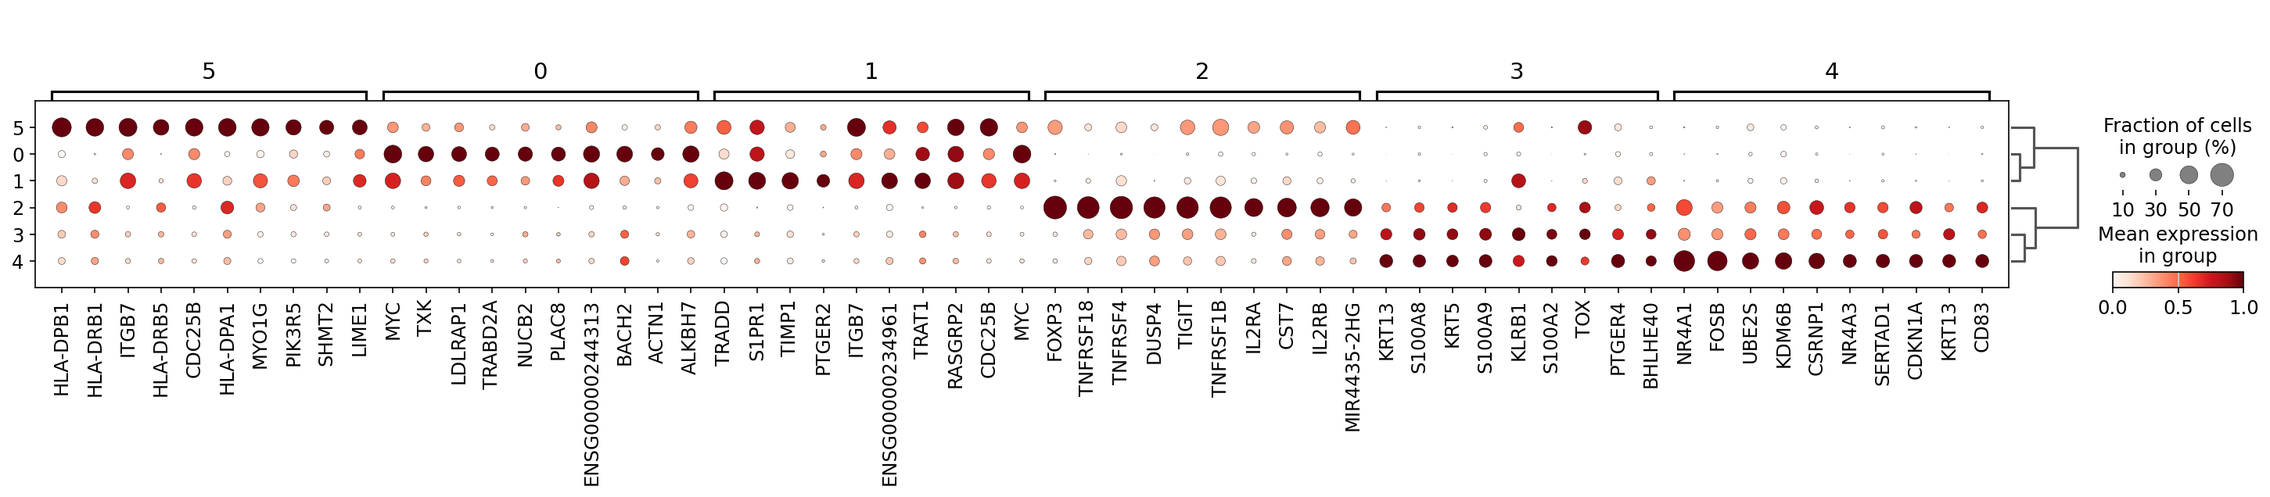
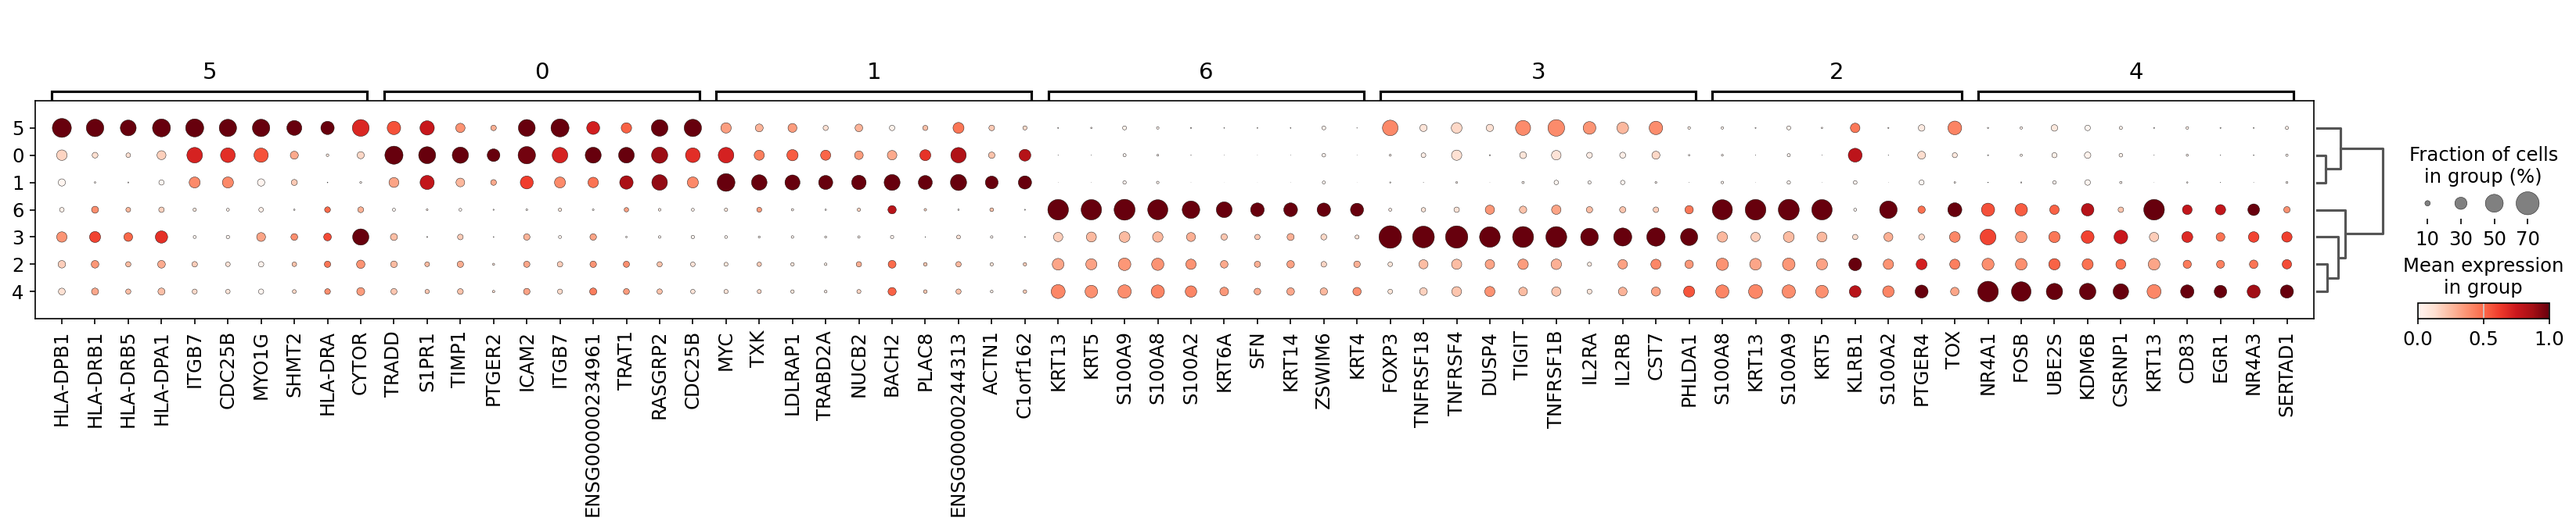
tht

diff --git a/Notebook_THT/探索过程/第二次亚群注释-T细胞.md b/Notebook_THT/探索过程/第二次亚群注释-T细胞.md
@@ -192,3 +192,238 @@ for celltype in celltypes_to_process:
         plot_prefix=""  # 图片名前缀（如scRNA_T_umapmd0.1_cluster.png）
     )
 ```
+
+## final anno CD4T
+T细胞的注释比较特殊,不同细胞群会有相同的marker表达，比如Tcm是在Tn基础上表达一定的杀伤marker
+
+
+### 先看看celltypist的结果
+<img src="..\figures\umap121celltypist_coarse_CD4T.png">
+<img src="..\figures\umap121celltypist_fine_CD4T.png">
+
+### 再看看聚类情况
+<img src="..\figures\umapCD4+T_umapmd0.4_cluster.png">
+
+### 筛marker
+```
+import scanpy as sc
+sc.settings.set_figure_params(
+    dpi=300,
+    facecolor="white",
+    frameon=False
+)
+sc.settings.figdir = "plots"
+adata = sc.read("RData/CD4+T__umapmd0.4.h5ad")
+marker_genes = {
+    "Tn": ["CCR7", "LEF1", "SELL", "TCF7", "MAL", "TXK", "CD27", "CD28", "S1PR1", "IL7R", "CD45RA", "CD38", "KLF2", "CHMP1B", "CYCS", "CD55", "AREG"],
+    "Temra": ["CD45RA", "GZMH", "GZMB", "TBX21", "ASCL2", "CX3CR1", "KLRG1", "FCGR3A", "FGFBP2", "PRF1", "EOMES", "S1PR1", "S1PR5", "NKG7", "GNLY", "CTSW"],
+    "Tcm": ["CCR7", "CCR4", "CXCR3", "CXCR4", "ANXA1", "GPR183", "LMNA", "CDKN1A", "GPR183", "TNFSF9", "GZMK", "SELL", "IL7R", "CD27", "CD28", "PRF1", "GZMA", "CCL5", "S1PR1", "PTGER2", "ICAM2", "ANXA2", "RGS1", "TCF7", "CD69"],
+    "Tem": ["GNLY", "FOS", "JUN", "IL7R", "CXCR3", "CXCR4", "CXCR5", "GZMK", "GZMH", "GZMA", "CD74", "CD28", "CCL4", "CCL4L2", "CD44", "NR4A1", "TNFSF9"],
+    "Trm": ["ZNF683", "CD52", "HOPX", "ID2", "CXCR6", "XCL1", "XCL2", "KLRC1", "GZMH", "GZMA", "CCR6", "HSPA1A", "HSPA1B", "CAPG", "CD6", "MYADM", "RORA", "NR4A1", "NR4A2", "NR4A3", "CD69", "ITGAE", "KLRB1", "PTGER4", "IL7R"],
+    "Tex": ["PDCD1", "HAVCR2", "LAG3", "LAYN", "TIGIT", "ENTPD1", "CXCL13", "HLA-DR", "CTLA4", "TNFRSF18", "TOX", "IFNG", "MIR155HG", "TNFRSF9", "ITGAE"],
+    "Treg": ["FOXP3"],
+    "Th17": ["RORA", "RORC", "CCR6", "IL23R", "IL22", "IL17A", "IL17F", "IL26", "FURIN", "CTSH", "KLRB1", "CAPG", "ITGAE"],
+    "Th1-like_Tfh": ["TOX","TOX2","IL21","CXCL13","GNG4","CD200","ZBED2","CCL3","CCL4","IFNG","GZMB","LAG3","HAVCR2","CTLA4","CXCR6","CXCR3","BHLHE40","GZMB","PDCD1","ICOS","IGFLR1","ITGAE","BCL6","ICA1","IL6ST","MAGEH1","BTLA","CD200"],
+}
+marker_genes_in_data = {}
+for ct, markers in marker_genes.items():
+    markers_found = []
+    for marker in markers:
+        if marker in adata.var.index:
+            markers_found.append(marker)
+    marker_genes_in_data[ct] = markers_found
+sc.pl.umap(adata,color=marker_genes_in_data["Tn"],vmin=0,vmax="p99",sort_order=False,cmap="Reds",save="Tresubset_Tnmarkers.png")
+sc.pl.umap(adata,color=marker_genes_in_data["Temra"],vmin=0,vmax="p99",sort_order=False,cmap="Reds",save="Tresubset_Temramarkers.png")
+sc.pl.umap(adata,color=marker_genes_in_data["Tcm"],vmin=0,vmax="p99",sort_order=False,cmap="Reds",save="Tsubset_Tcmmarkers.png")
+sc.pl.umap(adata,color=marker_genes_in_data["Tem"],vmin=0,vmax="p99",sort_order=False,cmap="Reds",save="Tsubset_Temmarkers.png")
+sc.pl.umap(adata,color=marker_genes_in_data["Trm"],vmin=0,vmax="p99",sort_order=False,cmap="Reds",save="Tsubset_Trmmarkers.png")
+sc.pl.umap(adata,color=marker_genes_in_data["Tex"],vmin=0,vmax="p99",sort_order=False,cmap="Reds",save="Tsubset_Texmarkers.png")
+sc.pl.umap(adata,color=marker_genes_in_data["Treg"],vmin=0,vmax="p99",sort_order=False,cmap="Reds",save="Tsubset_Tregmarkers.png")
+sc.pl.umap(adata,color=marker_genes_in_data["Th17"],vmin=0,vmax="p99",sort_order=False,cmap="Reds",save="Tsubset_Th17markers.png")
+sc.pl.umap(adata,color=marker_genes_in_data["Th1-like_Tfh"],vmin=0,vmax="p99",sort_order=False,cmap="Reds",save="Tsubset_Th1-like_Tfhmarkers.png")
+```
+<img src="..\figures\umapTresubset_Tnmarkers.png">
+CD38,CHMP1B,CYCS没有特异性
+<img src="..\figures\umapTresubset_Temramarkers.png">
+可能没有这一群
+<img src="..\figures\umapTsubset_Tcmmarkers.png">
+ANXA1,IL7R,SELL,GZMK这几个看起来比较对
+<img src="..\figures\umapTsubset_Temmarkers.png">
+FOS,JUN
+<img src="..\figures\umapTsubset_Trmmarkers.png">
+感觉是没有这一群
+<img src="..\figures\umapTsubset_Texmarkers.png">
+PDCD1,HAVCR2,LAG3,LAYN,TIGIT,ENTPD1,CXCL13,CTLA4,TNFRSF18,TNFRSF9,TOX
+<img src="..\figures\umapTsubset_Tregmarkers.png">
+<img src="..\figures\umapTsubset_Th17markers.png">
+感觉没有这一群
+<img src="..\figures\umapTsubset_Th1-like_Tfhmarkers.png">
+
+### 单纯用umap很难分得清各个cluster到底是什么细胞,用点图尝试下
+```
+marker_genes = ["FOXP3",
+                "ANXA1",
+                "CCR7","LEF1","SELL","TCF7","MAL",
+                "FOS","JUN","IL7R",
+                "GZMK",
+                "PDCD1","HAVCR2","LAG3","LAYN","TIGIT","ENTPD1","CXCL13","CTLA4","TNFRSF18","TNFRSF9","TOX"]
+from matplotlib.colors import LinearSegmentedColormap
+custom_cmap = LinearSegmentedColormap.from_list("custom", ["#0A3D7C", "#F6F6F6", "#810426"])
+dp = sc.pl.dotplot(
+        adata,
+        groupby="leiden_res1",
+        var_names=marker_genes,
+        standard_scale="var",
+        return_fig=True,
+        var_group_labels="      ",
+        var_group_positions = [(0,0),(1,1),(2,6),
+        (7,9),(10,10),(11,21)],
+        cmap = custom_cmap
+    )
+dp.add_totals().style(dot_edge_color='black', dot_edge_lw=1).savefig("plots/test_dotplot.png")
+```
+```
+marker_genes = {
+    "Tn": ["CCR7", "LEF1", "SELL", "TCF7", "MAL",],
+    "Tcm": ["ANXA1","GZMK","IL7R",],
+    "Tem": ["FOS", "JUN",],
+    "Trm": ["ZNF683"],
+    "Tex": ["PDCD1", "HAVCR2", "LAG3", "LAYN", "TIGIT", "ENTPD1", "CXCL13", "CTLA4", "TNFRSF18", "TOX",],
+    "Treg": ["FOXP3"],
+}
+sc.pl.dotplot(
+        adata,
+        groupby="leiden_res1",
+        var_names=marker_genes,
+        standard_scale="var",
+        save="CD4亚群.png"
+    )
+```
+如果是选res=1的话，明确的cluster是0,3是Tem,1,6,8是Treg,2,7是Tcm,4,5是Tn,9可能是Tem
+
+### 利用差异基因找marker
+```
+sc.tl.rank_genes_groups(
+ adata, groupby="leiden_res1", method="wilcoxon", key_added="dea_leiden_res1"
+)
+sc.tl.filter_rank_genes_groups(
+  adata,
+  min_in_group_fraction=0.2,
+  max_out_group_fraction=0.2,
+  key="dea_leiden_res1",
+  key_added="dea_leiden_res1_filtered",
+ )
+sc.pl.rank_genes_groups_dotplot(
+  adata,
+  groupby="leiden_res1",
+  standard_scale="var",
+  n_genes=10,
+  key="dea_leiden_res1_filtered",
+  save="CD4T_top10gene.png"
+)
+
+```
+画完这个图发现第9群其实是T混了上皮
+0群:NR4A1,FOSB,UBE2S
+1,6群事实上分不开:TNFRSF18,FOXP3,TIGIT
+2,7群事实上也分不开
+3群好像也有问题
+
+把res降到0.8重新弄下
+```
+marker_genes = {
+    "Tn": ["CCR7", "LEF1", "SELL", "TCF7", "MAL",],
+    "Tcm": ["ANXA1","GZMK","IL7R",],
+    "Tem": ["FOS", "JUN",],
+    "Trm": ["ZNF683"],
+    "Tex": ["PDCD1", "HAVCR2", "LAG3", "LAYN", "TIGIT", "ENTPD1", "CXCL13", "CTLA4", "TNFRSF18", "TOX",],
+    "Treg": ["FOXP3"],
+}
+sc.pl.dotplot(
+        adata,
+        groupby="leiden_res0_8",
+        var_names=marker_genes,
+        standard_scale="var",
+        save="res0_8CD4亚群.png"
+    )
+```
+<img src="..\figures\dotplot_res0_8CD4亚群.png">
+
+```
+sc.tl.rank_genes_groups(
+ adata, groupby="leiden_res0_8", method="wilcoxon", key_added="dea_leiden_res0_8"
+)
+sc.tl.filter_rank_genes_groups(
+  adata,
+  min_in_group_fraction=0.2,
+  max_out_group_fraction=0.2,
+  key="dea_leiden_res0_8",
+  key_added="dea_leiden_res0_8_filtered",
+ )
+sc.pl.rank_genes_groups_dotplot(
+  adata,
+  groupby="leiden_res0_8",
+  standard_scale="var",
+  n_genes=10,
+  key="dea_leiden_res0_8_filtered",
+  save="CD4T_top10gene.png"
+)
+```
+<img src="..\figures\dotplot_CD4T_top10gene.png">
+
+0群:Tcm,特征基因为ANXA1,TIMP1,PTGER2
+1群:Tn,特征基因为TCF7,SELL,CCR7,TXK
+2群：双细胞要去掉
+3群:Treg,特征基因为FOXP3,TNFRSF18,TNFRSF4
+4群:Tem,特征基因为NR4A1,FOS,JUN,
+5群:Treg,特征基因为SHMT2,HLA-DPB1,HLA-DRB1
+6群：双细胞要去掉
+
+绘制放到S1最后的图
+```
+adata = sc.read("RData/CD4+T__umapmd0.4.h5ad")
+adata = adata[adata.obs.leiden_res0_8 != '2'].copy()
+adata = adata[adata.obs.leiden_res0_8 != '6'].copy()
+cl_annotation = {
+    "0": "c02_CD4_Tcm_ANXA1",
+    "1": "c01_CD4_Tn_TCF7",
+    "3": "c04_CD4_Treg_FOXP3",
+    "4": "c03_CD4_Tem_NR4A1",
+    "5": "c05_CD4_Treg_SHMT2",
+}
+adata.obs["minor_celltype"]=adata.obs.leiden_res0_8.map(cl_annotation)
+adata.write("RData/CD4T_annotated.h5ad")
+```
+
+```
+sc.settings.set_figure_params(
+    dpi=300,
+    facecolor="white",
+    frameon=True
+)
+```
+
+
+
+
+```
+sc.tl.rank_genes_groups(
+ subset_adata, groupby="leiden_res1", method="wilcoxon", key_added="dea_leiden_res1"
+)
+sc.tl.filter_rank_genes_groups(
+  subset_adata,
+  min_in_group_fraction=0.2,
+  max_out_group_fraction=0.2,
+  key="dea_leiden_res1",
+  key_added="dea_leiden_res1_filtered",
+ )
+sc.pl.rank_genes_groups_dotplot(
+  subset_adata,
+  groupby="leiden_res1",
+  standard_scale="var",
+  n_genes=10,
+  key="dea_leiden_res1_filtered",
+  save="Treg_CD4T_top10gene.png"
+)
+```
+<img src="..\figures\dotplot_Treg_CD4T_top10gene.png">
